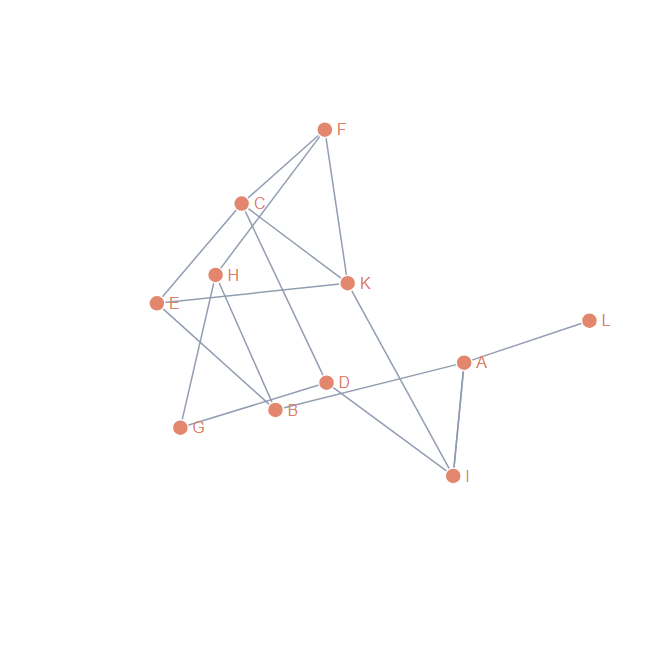
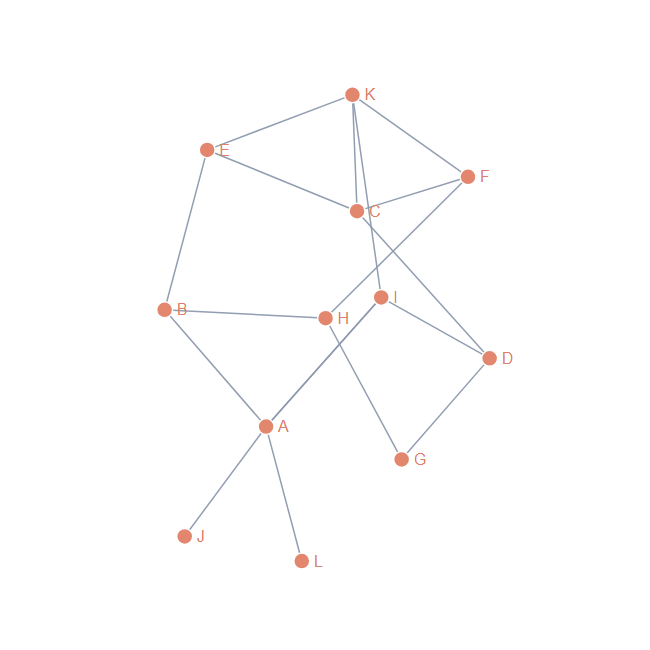
fix: no ausente silenciosamente na rede interativa networkd3
simpleNetwork() infere nos so a partir das ligacoes; com set.seed(77) a
letra "J" nunca saia sorteada em nenhuma das 18 linhas, entao sumia do
grafo sem erro. Corrigido detectando nos faltantes e conectando-os ao
no de maior grau (evita criar cadeia de pendentes que o layout de
forcas empurra pra fora do enquadramento). De caminho, union() trocado
por base::union() explicito (igraph mascara essa funcao no script).

diff --git a/graficos/network/rede-interativa-networkd3/widget.html b/graficos/network/rede-interativa-networkd3/widget.html
@@ -13,7 +13,7 @@
 <div id="htmlwidget_container">
   <div class="forceNetwork html-widget html-fill-item" id="htmlwidget-6ab3928727ddd6303b22" style="width:960px;height:500px;"></div>
 </div>
-<script type="application/json" data-for="htmlwidget-6ab3928727ddd6303b22">{"x":{"links":{"source":[1,4,8,4,7,5,7,9,7,5,3,1,8,10,8,0,6],"target":[0,2,9,9,5,2,6,2,1,9,2,4,3,0,0,8,3],"value":[1,1,1,1,1,1,1,1,1,1,1,1,1,1,1,1,1],"colour":["#8d99ae","#8d99ae","#8d99ae","#8d99ae","#8d99ae","#8d99ae","#8d99ae","#8d99ae","#8d99ae","#8d99ae","#8d99ae","#8d99ae","#8d99ae","#8d99ae","#8d99ae","#8d99ae","#8d99ae"]},"nodes":{"name":["A","B","C","D","E","F","G","H","I","K","L"],"group":[1,1,1,1,1,1,1,1,1,1,1],"nodesize":[8,8,8,8,8,8,8,8,8,8,8]},"options":{"NodeID":"name","Group":"group","colourScale":"d3.scaleOrdinal(['#e07a5f'])","fontSize":16,"fontFamily":"sans-serif","clickTextSize":40,"linkDistance":120,"linkWidth":"'1.5px'.toString()","charge":-400,"opacity":0.95,"zoom":true,"legend":false,"arrows":false,"nodesize":true,"radiusCalculation":"d.nodesize","bounded":false,"opacityNoHover":1,"clickAction":null}},"evals":[],"jsHooks":[]}</script>
+<script type="application/json" data-for="htmlwidget-6ab3928727ddd6303b22">{"x":{"links":{"source":[1,4,8,4,7,5,7,10,7,5,3,1,8,11,8,0,6,9],"target":[0,2,10,10,5,2,6,2,1,10,2,4,3,0,0,8,3,0],"value":[1,1,1,1,1,1,1,1,1,1,1,1,1,1,1,1,1,1],"colour":["#8d99ae","#8d99ae","#8d99ae","#8d99ae","#8d99ae","#8d99ae","#8d99ae","#8d99ae","#8d99ae","#8d99ae","#8d99ae","#8d99ae","#8d99ae","#8d99ae","#8d99ae","#8d99ae","#8d99ae","#8d99ae"]},"nodes":{"name":["A","B","C","D","E","F","G","H","I","J","K","L"],"group":[1,1,1,1,1,1,1,1,1,1,1,1],"nodesize":[8,8,8,8,8,8,8,8,8,8,8,8]},"options":{"NodeID":"name","Group":"group","colourScale":"d3.scaleOrdinal(['#e07a5f'])","fontSize":16,"fontFamily":"sans-serif","clickTextSize":40,"linkDistance":120,"linkWidth":"'1.5px'.toString()","charge":-400,"opacity":0.95,"zoom":true,"legend":false,"arrows":false,"nodesize":true,"radiusCalculation":"d.nodesize","bounded":false,"opacityNoHover":1,"clickAction":null}},"evals":[],"jsHooks":[]}</script>
 <script type="application/htmlwidget-sizing" data-for="htmlwidget-6ab3928727ddd6303b22">{"viewer":{"width":450,"height":350,"padding":10,"fill":true},"browser":{"width":960,"height":500,"padding":10,"fill":true}}</script>
 </body>
 </html>

diff --git a/docs/PROGRESS.md b/docs/PROGRESS.md
@@ -27,6 +27,8 @@ Log de todos os gráficos adicionados ao projeto. Atualize sempre que um gráfic
 
 ## Histórico do projeto
 
+- **2026-07-27**: bug corrigido no gráfico de [rede interativa com networkD3](../graficos/network/rede-interativa-networkd3) — usuário reportou algo estranho na página; investigação achou que o nó `J` estava ausente do grafo (12 nós esperados, só 11 renderizados), silenciosamente, porque `simpleNetwork()` infere os nós só a partir do que aparece nas ligações e, com `set.seed(77)`, a letra "J" nunca saía sorteada em nenhuma das 18 linhas. Corrigido comparando a lista de nós esperados com os presentes e adicionando uma ligação extra pro nó faltante — inicialmente ligado a um nó aleatório, o que criava uma cadeia de pendentes (`A-L-J`) que o layout de forças empurrava pra fora do enquadramento do `output.png`; corrigido de novo ligando ao nó de maior grau (um "hub") em vez de um nó periférico. De caminho, trocado `union()` por `base::union()` explícito (o `igraph`, carregado no mesmo script, mascara essa função).
+
 - **2026-07-27**: décimo oitavo gráfico adicionado (rosca de alocação de tempo, primeira entrada da categoria nova `part-of-whole`), a partir de [r-graph-gallery.com/doughnut-plot](https://r-graph-gallery.com/doughnut-plot.html). A página tinha várias variações (básica, customizada, controle de espessura do anel via `xlim`, alternativa em R base) que eram passos progressivos de tutorial, não estilos alternáveis — combinadas num gráfico só com a técnica mais completa (`geom_rect()`+`coord_polar()`, rótulos, paleta e anel customizados). Dados fictícios (5 categorias de uso do tempo somando 24h) no lugar dos rótulos genéricos do original. Interativo via `plotly::plot_ly(type="pie", hole=...)` em vez de `ggplotly()` — conversão de `coord_polar()` é limitação conhecida do pacote, mesma lógica de "técnica diferente quando não há conversão direta" já usada noutros gráficos do acervo.
 - **2026-07-27**: segundo commit do gráfico de dispersão 3D de cafés ([graficos/correlation/dispersao-3d-cafes](../graficos/correlation/dispersao-3d-cafes)) — adicionada a versão interativa (`rgl::rglwidget()`, `interactive: true`), completando o pedido do usuário de entregar este gráfico em 2 commits/pushes separados. Mesma cena/dados do commit estático anterior, sem duplicação. Legenda (de novo sem `legend3d()`, que não funciona headless) virou uma lista HTML simples via `htmltools`, ao lado do widget. Detectado e corrigido nesse commit: o canvas WebGL nasce com largura fixa em pixels e estourava a largura da página — precisou de `max-width: 100%` via CSS pra ficar responsivo (mesmo tipo de problema já resolvido antes no iframe dos widgets, ver "Lições aprendidas" em [AGENTS.md](../AGENTS.md)).
 - **2026-07-27**: décimo sétimo gráfico adicionado (dispersão 3D com `rgl`, categoria `correlation`), a partir de [r-graph-gallery.com/3d_scatter_plot](https://r-graph-gallery.com/3d_scatter_plot.html) — **entregue em 2 commits/pushes separados, a pedido do usuário**: este primeiro commit traz só a versão estática (`interactive: false`), a interativa (`rglwidget()`) vem num segundo commit em seguida. Dados fictícios (avaliação sensorial de cafés — acidez/corpo/doçura por torra, `set.seed(3005)`) no lugar do dataset real `iris` (medidas de pétala/sépala por espécie) do original. Pacotes novos: `rgl` (precisa de `options(rgl.useNULL = TRUE)` **antes** de `library(rgl)` pra rodar sem janela gráfica real) e `png` (usado só pra compor a legenda manualmente por cima do `snapshot3d()`, já que `legend3d()` não renderiza em modo headless — ver "Lições aprendidas" em [AGENTS.md](../AGENTS.md)).

diff --git a/graficos/network/rede-interativa-networkd3/README.md b/graficos/network/rede-interativa-networkd3/README.md
@@ -88,6 +88,16 @@ sorteadas usando `set.seed(77)`, filtrando auto-conexões.
 - **Problema**: salvar o widget falha por falta de `pandoc`. **Solução**: usar
   `selfcontained = FALSE` e manter a pasta `widget_files/` junto do HTML.
 
+- **Problema**: o grafo mostra um nó a menos do que o esperado — silenciosamente,
+  sem erro nenhum. **Por quê**: `simpleNetwork()` cria os nós só a partir do que
+  aparece nas colunas de ligação; se algum nome nunca sai sorteado em nenhuma
+  linha, ele simplesmente não existe no grafo. **Solução**: depois de montar as
+  ligações, comparar a lista de nós esperados com os que realmente aparecem
+  (`setdiff()`) e adicionar uma ligação extra para qualquer nó ausente — de
+  preferência para um nó bem conectado (um "hub"), não para outro nó periférico,
+  senão o layout de forças tende a empurrar essa dupla fraca pra fora do
+  enquadramento da imagem estática.
+
 ## Variações possíveis
 
 - Ajustar `charge` e `linkDistance` para uma rede mais compacta ou mais espalhada.
